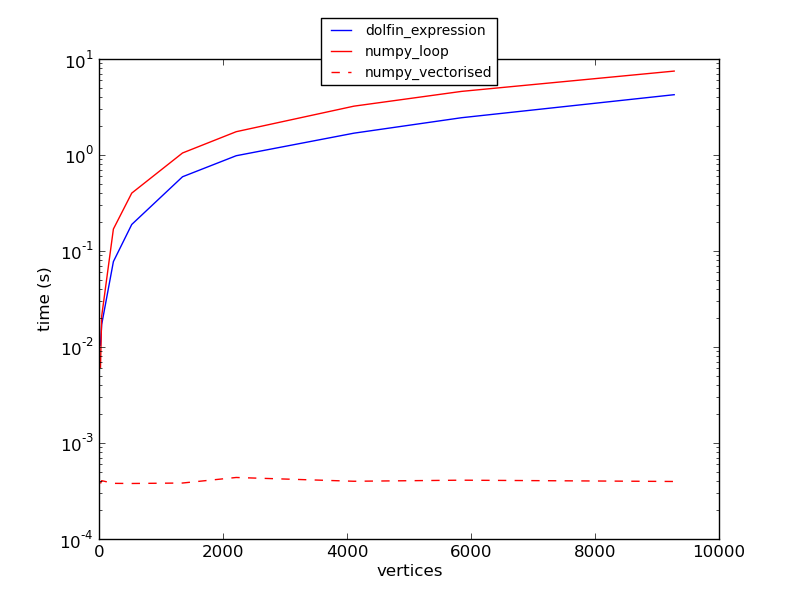
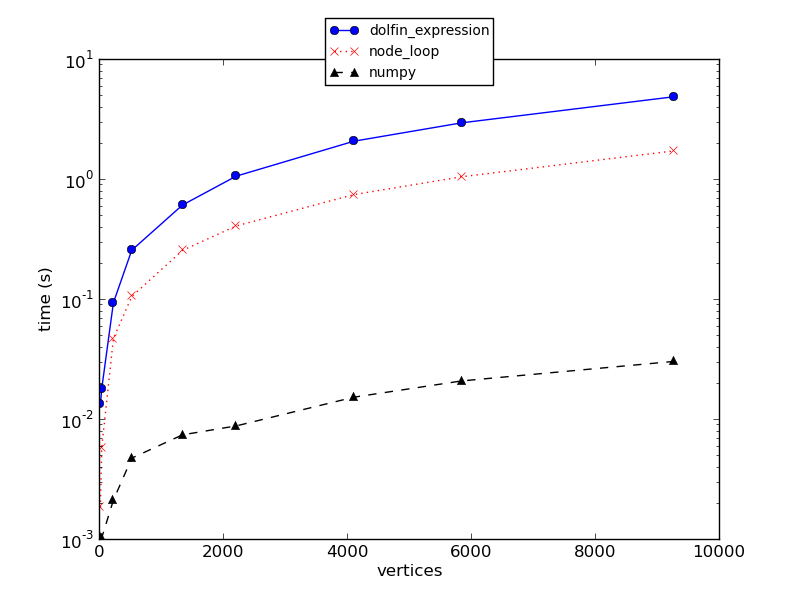
Created simplified version of performance test for dolfin expression. The expression looks really slow, and I don't know why. We should add to this script a separate check to make sure that all three ways of computing f give the same result. A sanity check by somebody else would be good, and then we

diff --git a/sandbox/benchmarks/updating_expression_simple.py b/sandbox/benchmarks/updating_expression_simple.py
@@ -1,0 +1,61 @@
+import time
+import math
+import numpy as np
+import dolfin as df
+import matplotlib.pyplot as plt
+
+"""
+function depends on time and space
+
+Expression we use is sin(x[0])*sin(t). This is motivated by the sinc function, but 
+we avoid any division by zero issues here.
+
+"""
+
+f_0 = 1
+ts = np.linspace(0, 5, 100)
+
+expr = df.Expression(
+    "f_0 * sin(t) * sin(x[0])", f_0 = f_0, t = 0.0)
+
+def dolfin_expression(t):
+    expr.t = t
+    f = df.interpolate(expr, S)
+    # could creating the array here cost time? Get rid of it.
+    #f.vector().array()
+    return None
+
+def node_loop(t):
+    f = np.empty(mesh.num_vertices())
+    for i, (x, y, z) in enumerate(mesh.coordinates()):
+        f[i] = f_0 * math.sin(x) * math.sin(t)
+    return None
+
+def numpy(t):
+    _ = f_0 * np.sin(xpos) * math.sin(t)
+    return None 
+
+lines = ["b-o", "r:x", "k^--"]
+for i, method in enumerate([dolfin_expression, node_loop, numpy]):
+    vertices = []
+    times = []
+    L = 10.
+    for dL in [1, 2, 5, 7, 10, 12, 15, 17, 20]:
+        mesh = df.Box(0, 0, 0, L, L, L, dL, dL, dL)
+        coordinates = mesh.coordinates()
+        xpos = coordinates[:,0]  # for numpy routine
+        S = df.FunctionSpace(mesh, "CG", 1)
+
+        vertices.append(mesh.num_vertices())
+        start = time.time()
+        for t in ts:
+            method(t)
+        runtime = time.time() - start
+        times.append(runtime)
+        print "{} ran for {:.2g} s.".format(method.__name__, runtime)
+    plt.plot(vertices, times, lines[i], label=method.__name__)
+plt.xlabel("vertices")
+plt.ylabel("time (s)")
+plt.yscale("log")
+plt.legend(loc="upper center", bbox_to_anchor=(0.5, 1.10), prop={'size':10})
+plt.savefig("updating_expression.png")
